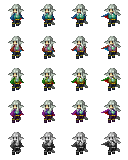
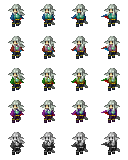
Changed head sprite rendering order

diff --git a/splitter.py b/splitter.py
@@ -675,7 +675,6 @@ def process(hd, bd, hoff, boff, alpha, outdir):
         'size': 'large',
         }
 
-
     if bbase in HEAD_PARAMS:
         headParams.update(HEAD_PARAMS[bbase])
 
@@ -695,6 +694,7 @@ def process(hd, bd, hoff, boff, alpha, outdir):
     if hsize == 'large':
         # Large head size
         w,h = HEAD_IDLE_SIZE
+        xPos = [3,2,1,0]
         
         for k in idleh.keys():
             newIdle = np.zeros((h,w,4), np.uint8)
@@ -703,7 +703,7 @@ def process(hd, bd, hoff, boff, alpha, outdir):
                 start = x*32,0
                 size = 32,32
                 sub = crop(idleh[k], start, size)
-                dest = x*32 + offset[x][0], -offset[x][1]
+                dest = xPos[x]*32 + offset[x][0], -offset[x][1]
                 paste(sub, newIdle, dest)
                 
             idleh[k] = newIdle
@@ -711,6 +711,7 @@ def process(hd, bd, hoff, boff, alpha, outdir):
     elif hsize == 'small':
         # Small head size
         w,h = HEAD_IDLE_SIZE
+        xPos = [0,1,2,3]
         
         for k in idleh.keys():
             newIdle = np.zeros((h,w,4), np.uint8)
@@ -719,7 +720,7 @@ def process(hd, bd, hoff, boff, alpha, outdir):
                 start = x*16,0
                 size = 16,16
                 sub = crop(idleh[k], start, size)
-                dest = x*32-24 + offset[x][0], -offset[x][1]
+                dest = xPos[x]*32-24 + offset[x][0], -offset[x][1]
                 paste(sub, newIdle, dest)
                 
             idleh[k] = newIdle
